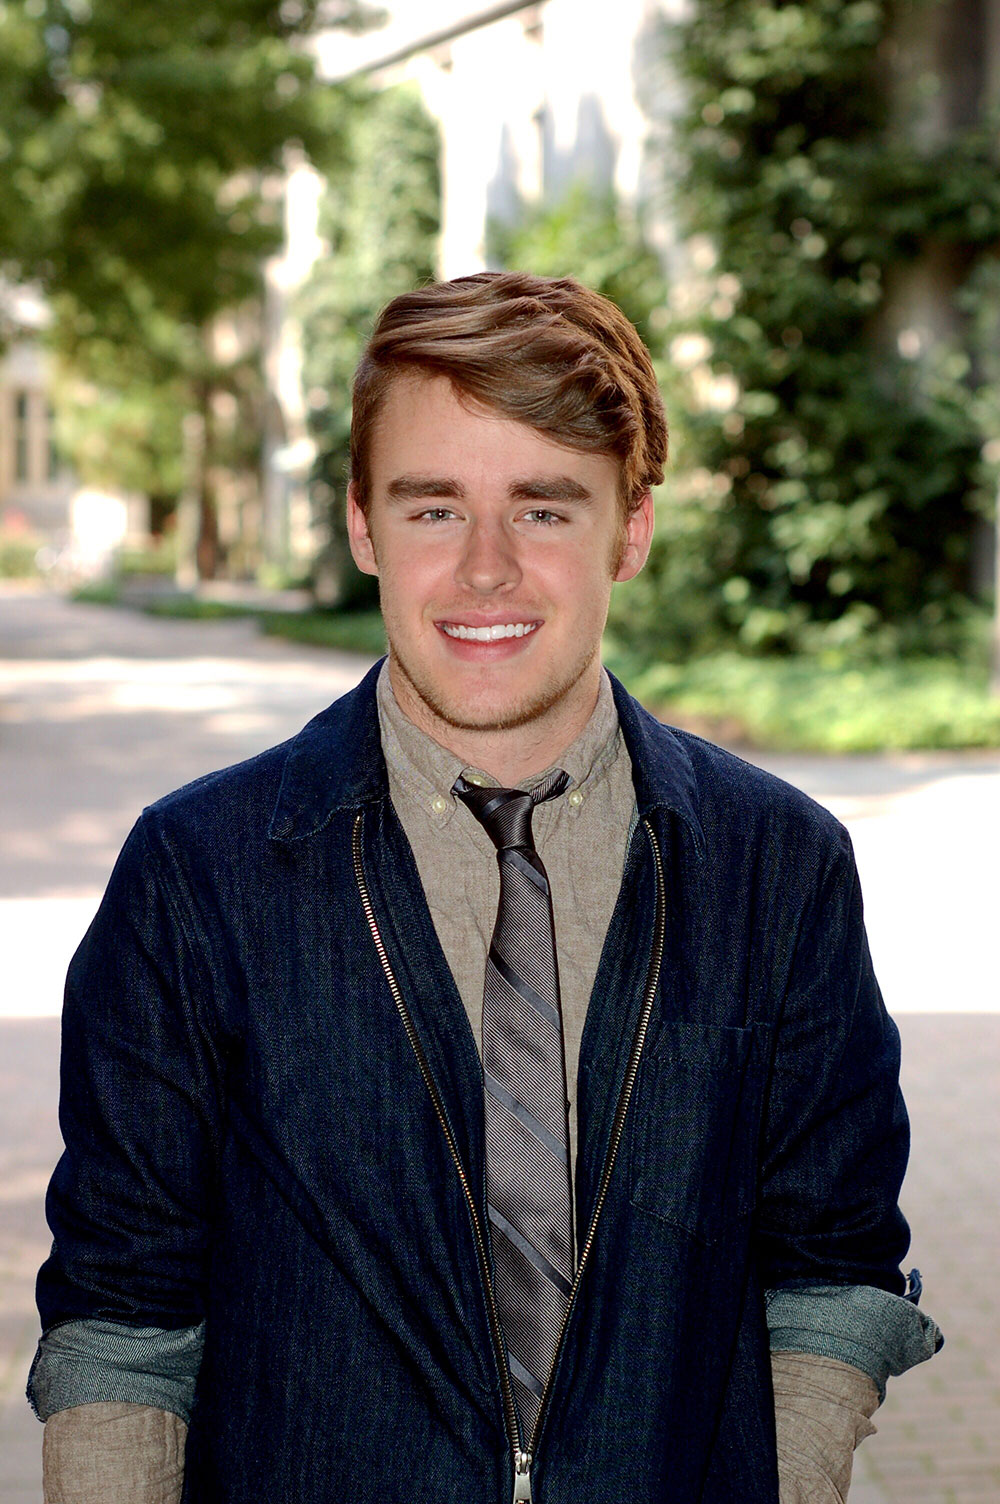
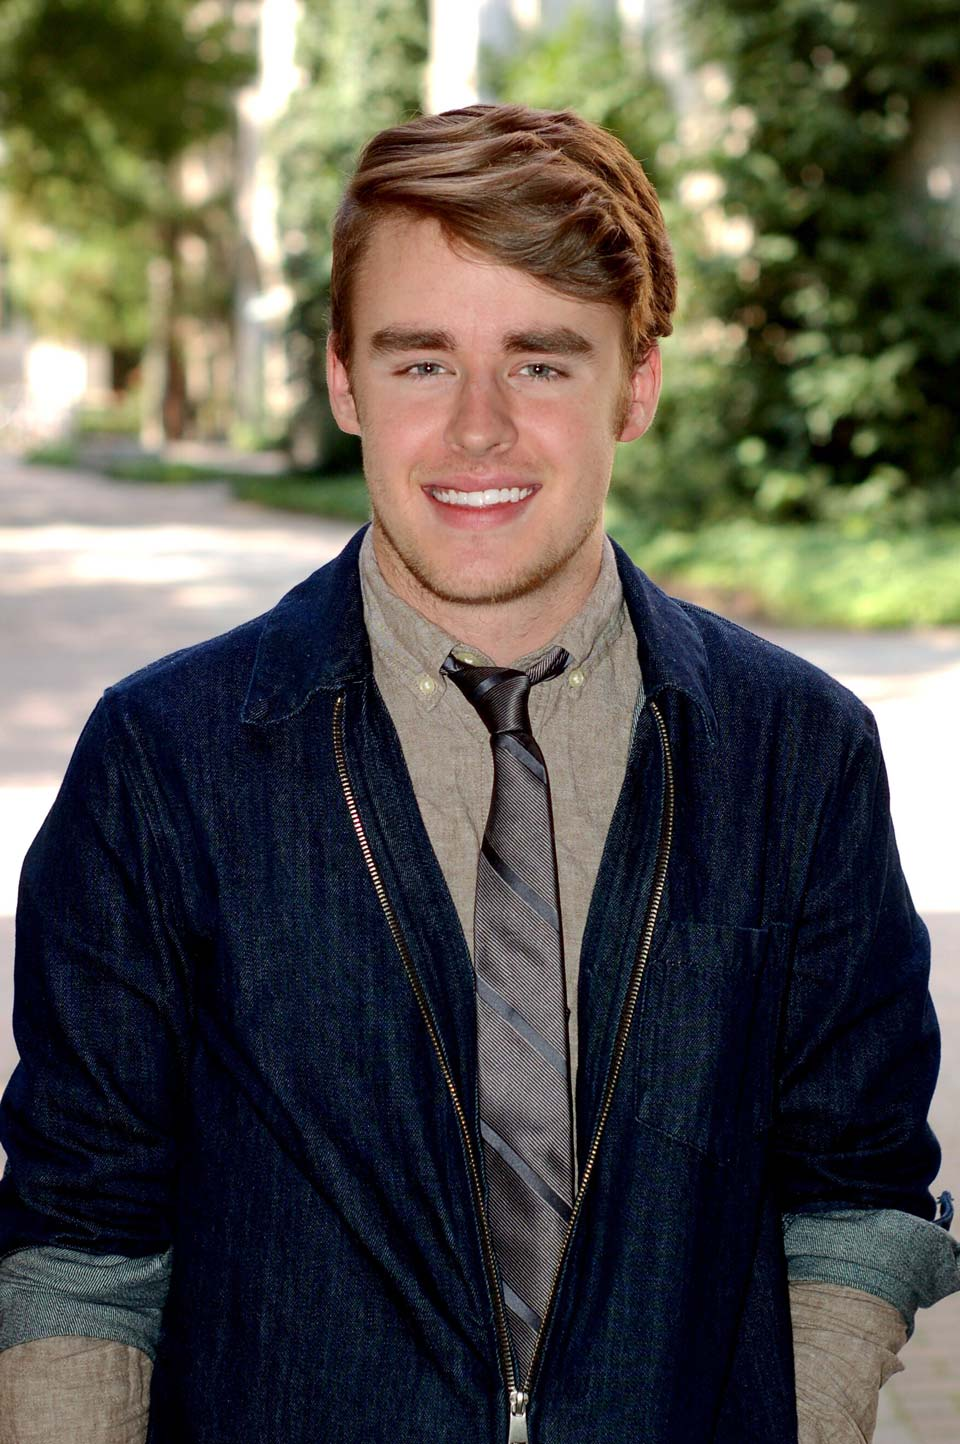
Add team members

diff --git a/site/layouts/partials/about-modal.html b/site/layouts/partials/about-modal.html
@@ -18,7 +18,7 @@
                       <span aria-hidden="true">&times;</span>
                   </button>
                   </div>
-                <div class="left-column" style="background-image: url(/images/bios/{{ .Params.abbrev }}_full.jpg)"></div>
+                <div class="left-column" style="background-image: url({{ .Params.image }})"></div>
                 <div class="right-column">      
                   <div class="modal-header mobile-off tablet-p-off">
                       

diff --git a/site/content/about/student-researcher-bios/gillian-slee.md b/site/content/about/student-researcher-bios/gillian-slee.md
@@ -1,0 +1,11 @@
+---
+childof: student-researcher-bios
+title: Gillian Slee
+abbrev: gslee
+position: Graduate Research Assistant
+date: 2017-11-26T03:46:25.603Z
+image: /images/bios/gslee_full.jpg
+thumb: /images/bios/gslee_thumb.jpg
+weight: 5
+---
+Gillian Slee is a first-year doctoral student in Sociology and Social Policy at Princeton University. She graduated from Harvard College in 2016 with a degree in Social Studies and a minor in Psychology. In 2017, Gillian earned her M.Phil. degree in Criminology at the University of Cambridge where she was a Herchel Smith Harvard Scholar. For her undergraduate thesis, she conducted an ethnographic study of public defenders and their clients in New York City’s criminal courts. Her master’s thesis explored legitimacy and legitimation in the British context and investigated how power-holders justified their authority in magistrates’ court. Gillian’s current research focuses on urban poverty, criminal justice, policy, and ethnography. At the Eviction Lab, Gillian is exploring the consequences of eviction on various neighborhood-level outcomes, including voting.

diff --git a/site/content/about/web-team-bios/2017-11-25-lane-olson.md b/site/content/about/web-team-bios/2017-11-25-lane-olson.md
@@ -1,8 +1,11 @@
 ---
 childof: web-team-bios
 title: Lane Olson
+abbrev: lolson
 position: Technical Lead
 date: 2017-11-23T01:56:53.000Z
-image: /images/uploads/lane-olson-tech-lead.jpg
+image: /images/bios/lolson_full.jpg
+thumb: /images/bios/lolson_thumb.jpg
+weight: 4
 ---
 Lane Olson holds a Bachelor of Science in computing science, with distinction, from the University of Alberta. With nearly two decades of web design and development experience, Lane has created interactive experiences for art galleries, universities, and highly acclaimed online courses. Through his previous work creating data visualizations and maps for online courses, like Mountains 101 and Indigenous Canada, Lane has developed a keen interest in creating interactive tools that are effective and easy to use. As the Technical Lead at Eviction Lab, Lane is working with the team to create the software architecture and implementation of the mapping and data tools for the project. When Lane’s not writing documentation or code, he’s helping out with a friend’s music project or working on one of his own.

diff --git a/site/content/about/web-team-bios/2017-11-25-abby-bajuniemi.md b/site/content/about/web-team-bios/2017-11-25-abby-bajuniemi.md
@@ -2,7 +2,10 @@
 childof: web-team-bios
 title: ABBY BAJUNIEMI
 position: 'User Experience Consultant, Translator'
+abbrev: abajuniemi
 date: 2017-11-24T17:49:52-08:00
-image: /images/uploads/web-team-abby.jpg
+image: /images/bios/abajuniemi_full.jpg
+thumb: /images/bios/abajuniemi_thumb.jpg
+weight: 2
 ---
 Abby Bajuniemi is a former visiting professor of Linguistics and Spanish at Macalester College. She completed a PhD in Hispanic and Lusophone Literatures, Cultures and Linguistics at the University of Minnesota, where her research interests centered on language acquisition and sociolinguistics. She translates that love of language structure and teaching into a passion for accessibility and inclusivity in design and content. As part of Eviction Lab’s web team and resident User Experience consultant, she conducts research that informs the design and function of the website and its content (English and Spanish). Outside of work, she writes and speaks on the intersection of UX and linguistics and mentors young professional women.

diff --git a/site/content/about/student-researcher-bios/henry-gomory.md b/site/content/about/student-researcher-bios/henry-gomory.md
@@ -1,10 +1,11 @@
 ---
 childof: student-researcher-bios
 title: Henry Gomory
-abbrev: hgom
+abbrev: hgomory
 position: Graduate Research Assistant
 date: 2017-11-26T03:46:25.603Z
-image: /images/uploads/research-team-adam.jpg
-thumb: /images/bios/aporton_thumb.jpg
+image: /images/bios/hgomory_full.jpg
+thumb: /images/bios/hgomory_thumb.jpg
+weight: 1
 ---
 Henry is a first-year doctoral student in Sociology and Social Policy at Princeton University. He graduated from Harvard College in 2017 with a degree in Sociology and a minor in Statistics. For his undergraduate thesis, he studied how American cities have become unaffordable for many renters and the consequences that has had for social life in rent-burdened communities. Henry currently studies the causes of rising rent prices, the relationships between landlords and tenants, and how evictions affect community life. In his free time, Henry likes to cook, listen to podcasts, and recite scenes from sitcoms to patient friends.

diff --git a/site/content/about/student-researcher-bios/chase-hommeyer.md b/site/content/about/student-researcher-bios/chase-hommeyer.md
@@ -1,0 +1,11 @@
+---
+childof: student-researcher-bios
+title: Chase Hommeyer
+abbrev: chommeyer
+position: Research Assistant
+date: 2017-11-26T03:46:25.603Z
+image: /images/bios/chommeyer_full.jpg
+thumb: /images/bios/chommeyer_thumb.jpg
+weight: 2
+---
+Chase is a current undergraduate at Princeton University, pursuing a concentration in Sociology, with certificates in Statistics & Machine Learning and Theater. She’s a fellow at the Carl A Fields Center for Equality + Cultural Understanding, one of three student members on the Princeton Campus Iconography Committee, and worked at Princeton University Archives Library on a project called “Archiving Student Activism at Princeton.”A native of San Francisco, Chase is also a former downhill ski racer and 400 and 800m track runner. She’s very excited to be a part of the Eviction Lab for the opportunity to learn powerful data analytics skills and learn how to apply those skills to fight social inequality.

diff --git a/site/content/about/web-team-bios/chris-groskopf.md b/site/content/about/web-team-bios/chris-groskopf.md
@@ -1,0 +1,11 @@
+---
+childof: web-team-bios
+title: Christopher Groskopf
+position: Technical Consultant
+abbrev: cgroskopf
+date: 2017-11-21T17:58:39-08:00
+image: /images/bios/cgroskopf_full.jpg
+thumb: /images/bios/cgroskopf_thumb.jpg
+weight: 6
+---
+Christopher Groskopf is a journalist and software engineer who lives in the piney woods of East Texas. For the Eviction Lab, Chris lent his expertise in information design and programming toward creation of our eviction mapping strategy, as well as recruitment of technical talent. Currently he's building tools for solving problems with public data at Enigma. Before that, he spent eight years coding in the service of journalism, working on teams including NPR Visuals and Quartz Things. He is the creator of handy open source tools, such as csvkit, and the author of fun-to-cite documentation, like The Quartz Guide to Bad Data. Chris and his wife, Tasneem Raja, run a local news site called The Tyler Loop.

diff --git a/site/content/about/web-team-bios/2017-11-25-noele-lusano.md b/site/content/about/web-team-bios/2017-11-25-noele-lusano.md
@@ -2,7 +2,10 @@
 childof: web-team-bios
 title: NOELE LUSANO
 position: Lead Designer
+abbrev: nlusano
 date: 2017-11-23T17:52:48-08:00
-image: /images/uploads/web-team-noele.jpg
+image: /images/bios/nlusano_full.jpg
+thumb: /images/bios/nlusano_thumb.jpg
+weight: 3
 ---
 Noele is a visual designer and photographer with 10+ years’ experience designing for the web, specializing in branding, creative direction, UI design and product development. She studied photography and design at London College of Communication. Drawn to complex design problems that seek to improve quality of life, she has contributed to a number of projects and redesigns in tech and ecommerce, and recently nonprofit. Her interests outside design are typography, cities, maps, learning and exploration. As lead designer for Eviction Lab she is committed to building intuitive and accessible user experiences which will serve as instruments for learning and change.

diff --git a/site/content/about/student-researcher-bios/sejin-park.md b/site/content/about/student-researcher-bios/sejin-park.md
@@ -1,0 +1,11 @@
+---
+childof: student-researcher-bios
+title: Sejin Park
+abbrev: spark
+position: Research Assistant
+date: 2017-11-26T03:46:25.603Z
+image: /images/bios/spark_full.jpg
+thumb: /images/bios/spark_thumb.jpg
+weight: 4
+---
+Sejin is currently a senior at Princeton University studying Computer Science. Her main academic and personal interests lie at the intersection of technology and society, and she hopes to pursue a career studying and mediating the interaction of these two fields, especially in developing countries. At the Eviction Lab, she will be working closely with James researching legal infrastructure around housing by utilizing different computer science techniques such as natural language processing. In her free time, she enjoys leading backpacking trips with Princeton Outdoor Action, exploring new places as well as familiar places, a good cup of coffee, and learning to love new things.

diff --git a/site/content/about/web-team-bios/2017-11-25-james-minton.md b/site/content/about/web-team-bios/2017-11-25-james-minton.md
@@ -3,6 +3,8 @@ childof: web-team-bios
 title: James Minton
 position: Creative Director
 date: 2017-11-26T00:40:16.700Z
-image: /images/uploads/web-team-james.jpg
+image: /images/bios/jminton_full.jpg
+thumb: /images/bios/jminton_thumb.jpg
+weight: 1
 ---
 James Minton is a designer and web developer committed to projects with a focus on public service and social justice. He holds degrees in photography, multimedia arts and psychology. Most recent projects include work on NYU School of Medicine’s website, and developing Justshelter.org in conjunction with Matthew Desmond’s release of _Evicted: Poverty and Profit in the American City_. As Creative Director of the Eviction Lab Web Team, he oversees visual design and user interface / CMS development. He also serves as project manager and principal liaison to the Research Team.

diff --git a/site/content/about/web-team-bios/2017-11-25-patrick-sier.md b/site/content/about/web-team-bios/2017-11-25-patrick-sier.md
@@ -2,7 +2,10 @@
 childof: web-team-bios
 title: Patrick Sier
 position: Web Developer
+abbrev: psier
 date: 2017-11-21T17:58:39-08:00
-image: /images/uploads/pat-sier-web-dev.jpg
+image: /images/bios/psier_full.jpg
+thumb: /images/bios/psier_thumb.jpg
+weight: 5
 ---
 Patrick received a Bachelor of Arts in public policy from the University of Michigan. This background has informed his work as a web developer, most recently creating tools for evaluations and interactive dashboards at a university research center. He has experience in data visualization and analysis as well as civic technology projects involving tenants’ rights and the justice system. As a developer for Eviction Lab’s web team, he works to integrate data and build functionality to make our mapping tool useful across a range of audiences and use cases.

diff --git a/site/content/about/student-researcher-bios/hyojin-lee.md b/site/content/about/student-researcher-bios/hyojin-lee.md
@@ -1,0 +1,11 @@
+---
+childof: student-researcher-bios
+title: Hyojin Lee
+abbrev: hlee
+position: Research Assistant
+date: 2017-11-26T03:46:25.603Z
+image: /images/bios/hlee_full.jpg
+thumb: /images/bios/hlee_thumb.jpg
+weight: 3
+---
+Hyojin Lee is a research assistant with the Eviction Lab and an undergraduate at Princeton University. She is a prospective member of the Chemistry department; however, she is also interested in Roman language and culture, mathematics, and creative writing. She has previously researched computational methods in biology. When not working as a research assistant, she is most likely attending class, running by Lake Carnegie, or watching bad movies with her roommate.
